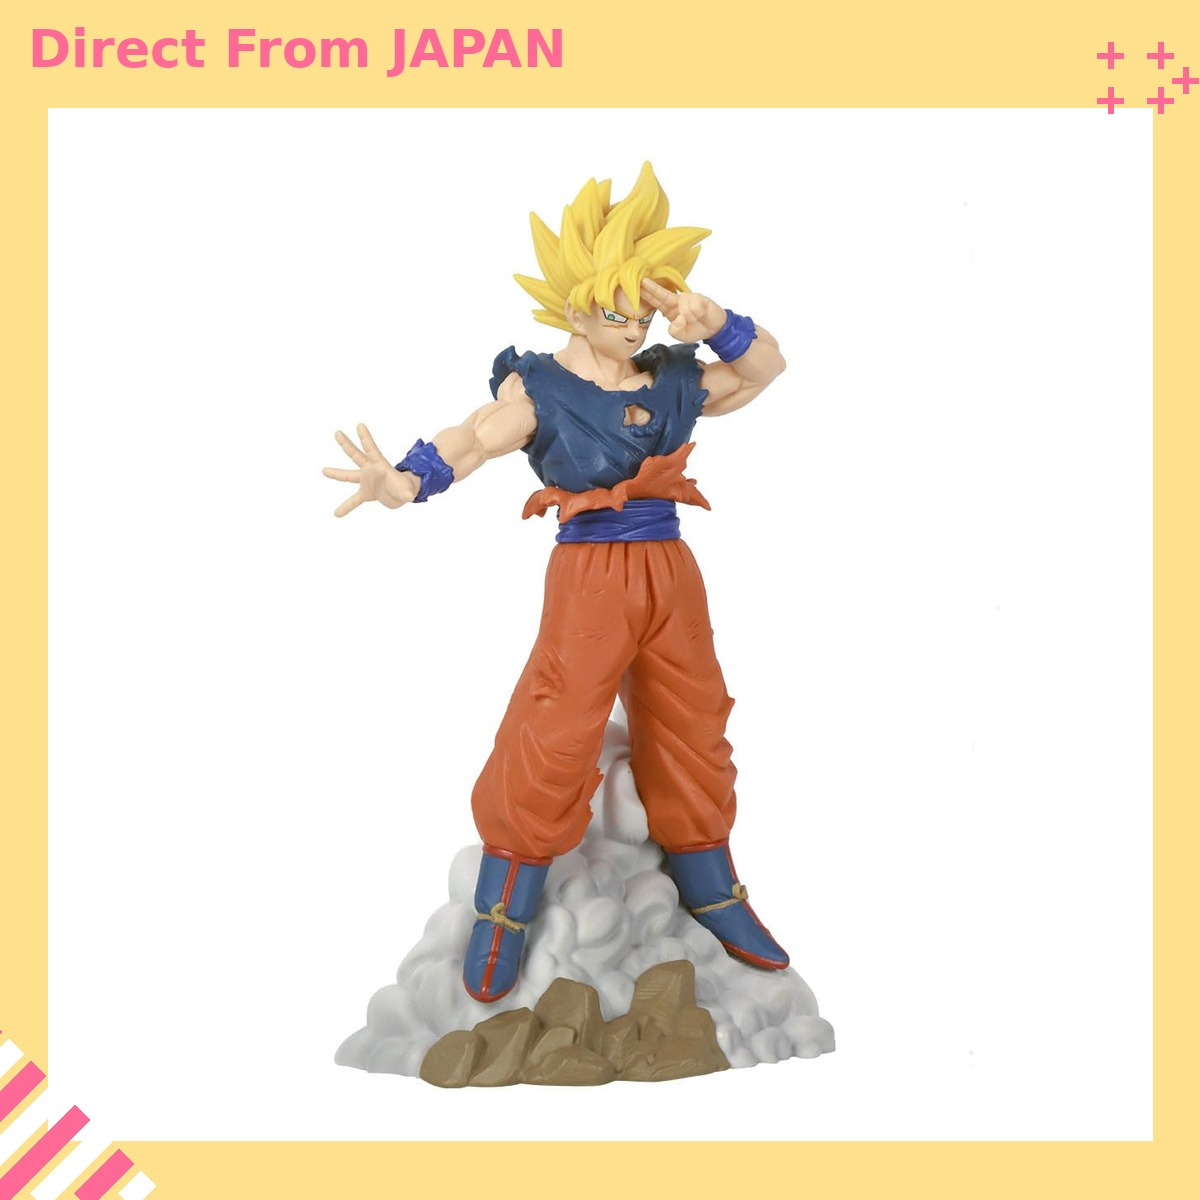
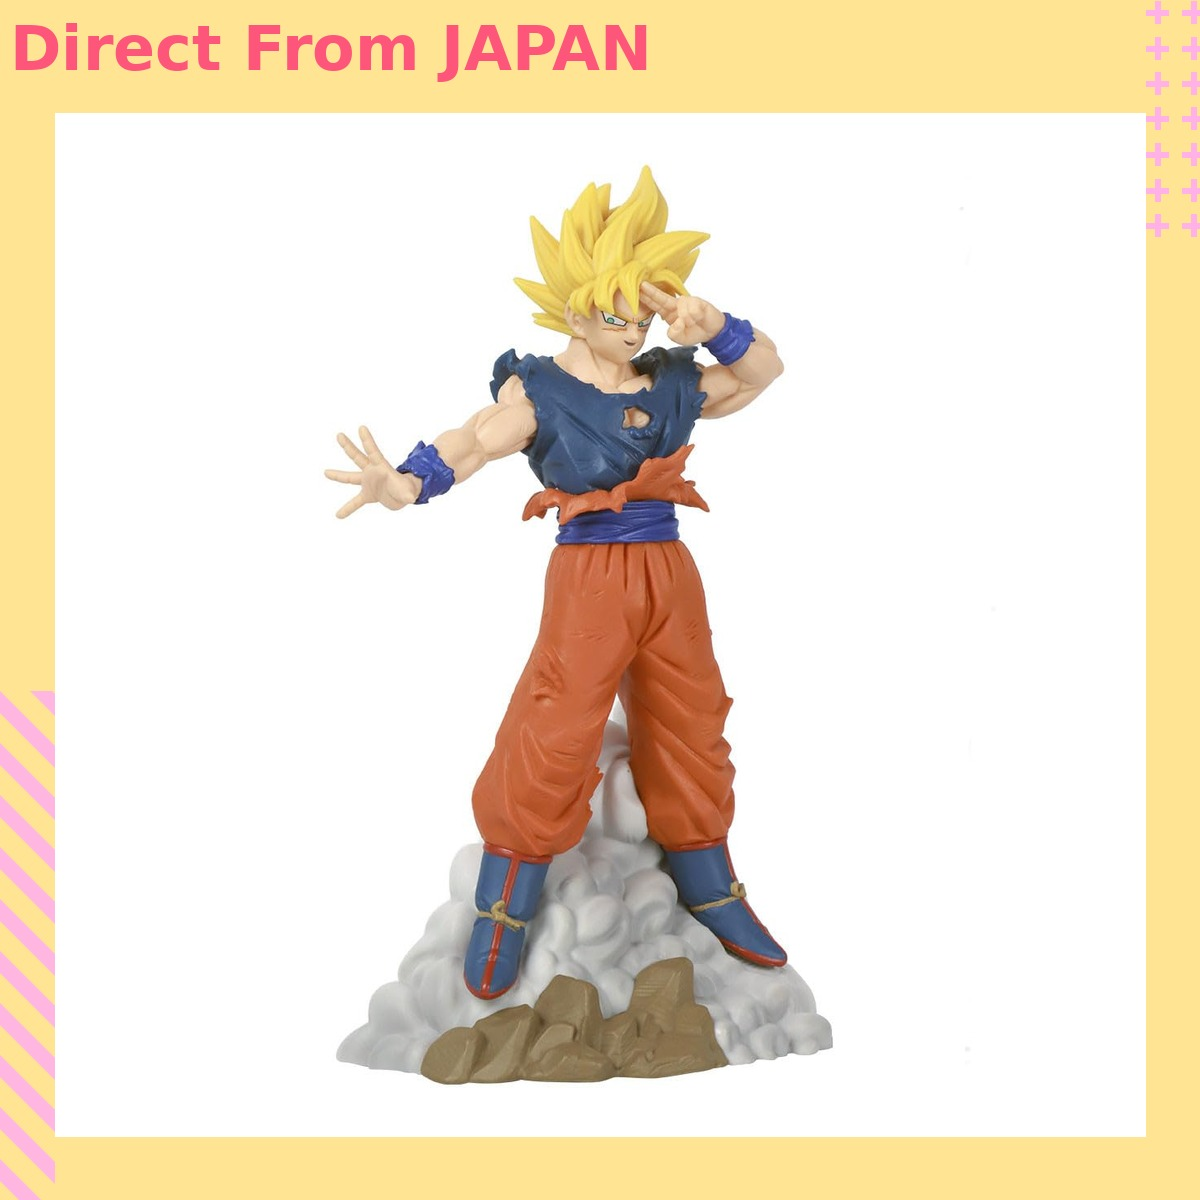
Match cover frame to reference: thin pale-pink stripes, 2x7 crosses, wider bold text
Claude-Session: https://claude.ai/code/session_01P6jb9MYEjXWdDykK73LRqE

diff --git a/scripts/add_shopee_frame.py b/scripts/add_shopee_frame.py
@@ -2,7 +2,7 @@
 add_shopee_frame.py
 
 Shopee出品用Cover画像に「パステルイエロー背景＋白抜き商品枠＋左上ピンクDirect From JAPANテキスト
-＋右上ピンク十字クラスター＋左下ピンク斜めストライプ」を自動で加工するスクリプト。
+＋右端の薄ピンク十字＋左端の薄ピンク斜めストライプ」を自動で加工するスクリプト。
 
 使い方:
     from add_shopee_frame import add_frame
@@ -18,19 +18,26 @@ import os
 
 # ---- デザイン設定 ----
 CANVAS_SIZE = 1200               # 出力画像は正方形(Shopee推奨)
-BG_COLOR = (255, 224, 140)       # パステルイエロー背景
+BG_COLOR = (255, 228, 147)       # パステルイエロー背景(見本 #FFE493)
 WHITE = (255, 255, 255)
-PINK = (255, 105, 150)           # テキスト/十字/ストライプのピンク
+PINK = (254, 86, 122)            # テキストのピンク(見本 #FE567A)
+CROSS_PINK = (255, 177, 232)     # 十字のピンク(見本 #FFB1E8)
+STRIPE_PINK = (255, 183, 226)    # ストライプのピンク(見本 #FFB7E2)
 INNER_PAD = 22                   # 白枠内の商品画像パディング
 
-TOP_BAND = 108                   # 上部(テキスト/十字用)の余白高さ
-SIDE_MARGIN = 48                 # 左右の黄色マージン
-BOTTOM_MARGIN = 60                # 下部の黄色マージン
+TOP_BAND = 113                   # 上部(テキスト/十字用)の余白高さ
+SIDE_MARGIN = 55                 # 左右の黄色マージン
+BOTTOM_MARGIN = 64                # 下部の黄色マージン
 
-CROSS_SIZE = 26
+# 見本(500px)を1200pxに拡大(x2.4)した寸法
+CROSS_SIZE = 22                  # 十字の全幅
 CROSS_THICKNESS = 6
-STRIPE_WIDTH = 22
-STRIPE_TRIANGLE = 170
+CROSS_COLS = (1157, 1193)        # 右端の2列(x中心)
+CROSS_ROW0, CROSS_PITCH, CROSS_ROWS = 12, 35.5, 7
+STRIPE_BAND = 22                 # ストライプ(ピンク)の縦幅
+STRIPE_PERIOD = 52               # ストライプの周期(縦方向)
+STRIPE_START = 691               # ストライプ開始位置(x=0でのy)
+STRIPE_STRIP_W = SIDE_MARGIN     # ストライプは左端の細い帯(白枠の手前)だけ
 
 
 def _load_font(size):
@@ -53,7 +60,7 @@ def _draw_cross(draw, cx, cy, size, color, thickness):
 def add_frame(input_path: str, output_path: str, banner_text: str = "Direct From JAPAN"):
     """
     input_path の商品画像に、パステルイエロー背景＋白抜き商品枠＋左上ピンクテキスト
-    ＋右上ピンク十字クラスター＋左下ピンク斜めストライプを加工し、output_path に保存する。
+    ＋右端の薄ピンク十字＋左端の薄ピンク斜めストライプを加工し、output_path に保存する。
     """
     base = Image.open(input_path).convert("RGB")
 
@@ -78,38 +85,30 @@ def add_frame(input_path: str, output_path: str, banner_text: str = "Direct From
     draw = ImageDraw.Draw(canvas)
 
     # 左上: "Direct From JAPAN" テキスト
-    font = _load_font(52)
-    draw.text((28, 18), banner_text, fill=PINK, font=font)
+    font = _load_font(62)
+    draw.text((10, 12), banner_text, fill=PINK, font=font)
 
-    # 右上: ピンク十字クラスター
-    cross_positions = [
-        (CANVAS_SIZE - 90, 55), (CANVAS_SIZE - 40, 55), (CANVAS_SIZE - 15, 80),
-        (CANVAS_SIZE - 90, 100), (CANVAS_SIZE - 40, 100),
-    ]
-    for (cx, cy) in cross_positions:
-        _draw_cross(draw, cx, cy, CROSS_SIZE, PINK, CROSS_THICKNESS)
+    # 右端: 薄ピンクの十字(2列x7段。右列は画像端で少し切れる)
+    for cx in CROSS_COLS:
+        for i in range(CROSS_ROWS):
+            _draw_cross(draw, cx, round(CROSS_ROW0 + CROSS_PITCH * i), CROSS_SIZE, CROSS_PINK, CROSS_THICKNESS)
 
-    # 左下: ピンク/白の斜めストライプ(三角形にマスク)
-    stripe_overlay = Image.new("RGBA", canvas.size, (0, 0, 0, 0))
-    sdraw = ImageDraw.Draw(stripe_overlay)
-    toggle = False
-    total = CANVAS_SIZE + STRIPE_TRIANGLE
-    x = -total
-    while x < STRIPE_TRIANGLE:
-        color = PINK + (255,) if toggle else WHITE + (255,)
-        sdraw.line([(x, CANVAS_SIZE), (x + total, CANVAS_SIZE - total)], fill=color, width=STRIPE_WIDTH)
-        x += STRIPE_WIDTH * 2
-        toggle = not toggle
-
-    mask = Image.new("L", canvas.size, 0)
-    mdraw = ImageDraw.Draw(mask)
-    mdraw.polygon(
-        [(0, CANVAS_SIZE - STRIPE_TRIANGLE), (0, CANVAS_SIZE), (STRIPE_TRIANGLE, CANVAS_SIZE)],
-        fill=255,
-    )
-    stripe_alpha = Image.composite(stripe_overlay.split()[3], Image.new("L", canvas.size, 0), mask)
-    stripe_overlay.putalpha(stripe_alpha)
-    canvas = Image.alpha_composite(canvas.convert("RGBA"), stripe_overlay).convert("RGB")
+    # 左端: 薄ピンクの斜めストライプ(左端の細い帯の中だけ、下端まで)
+    SS = 3
+    layer = Image.new("L", (STRIPE_STRIP_W * SS, (CANVAS_SIZE - STRIPE_START) * SS), 0)
+    ldraw = ImageDraw.Draw(layer)
+    h = layer.height
+    k = -2
+    while True:
+        y0 = k * STRIPE_PERIOD * SS
+        if y0 > h + STRIPE_STRIP_W * SS:
+            break
+        # 右下がりの平行四辺形(x=0で縦幅STRIPE_BAND、45度)
+        w = STRIPE_STRIP_W * SS
+        ldraw.polygon([(0, y0), (0, y0 + STRIPE_BAND * SS), (w, y0 + STRIPE_BAND * SS + w), (w, y0 + w)], fill=255)
+        k += 1
+    layer = layer.resize((STRIPE_STRIP_W, CANVAS_SIZE - STRIPE_START), Image.LANCZOS)
+    canvas.paste(Image.new("RGB", layer.size, STRIPE_PINK), (0, STRIPE_START), layer)
 
     canvas.save(output_path, quality=92)
     return output_path
